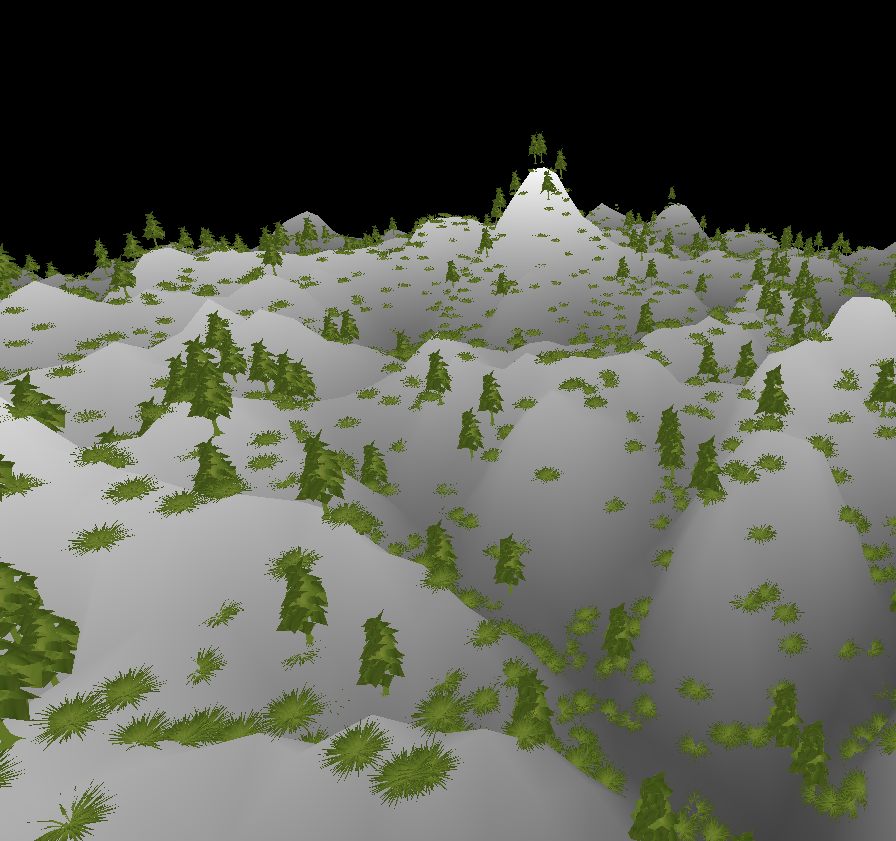
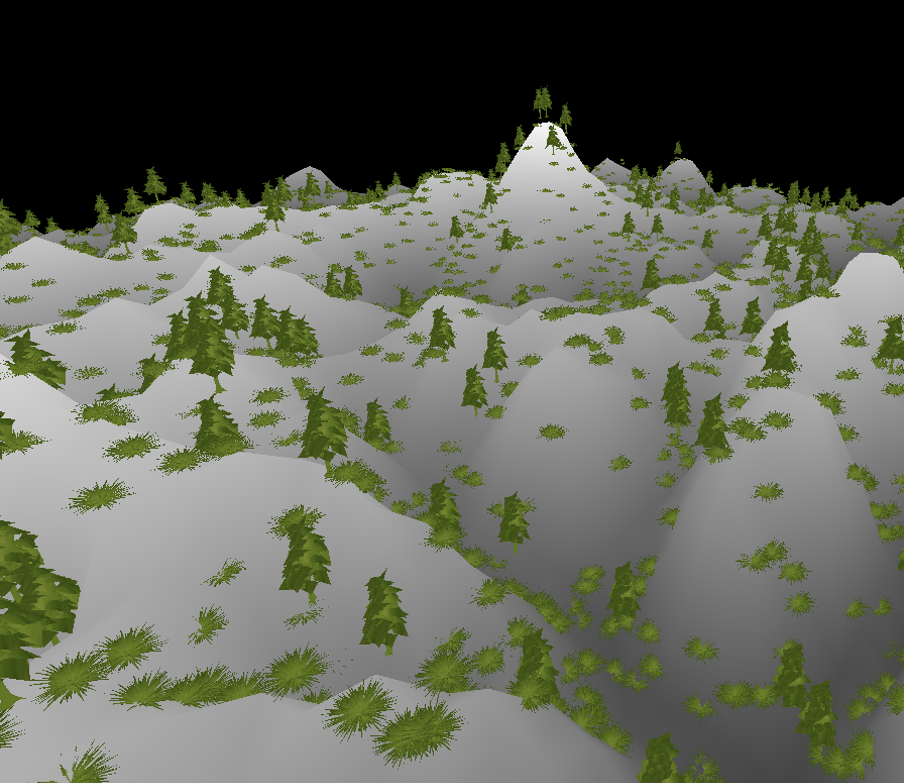
2D/3D Buttons. Minor layout changes

diff --git a/static/css/buttons.css b/static/css/buttons.css
@@ -1,0 +1,75 @@
+a {
+	cursor:pointer
+}
+
+ul.buttons {
+	font-size: 0;
+	margin: 0;
+	list-style-type: none;
+	text-align: left;
+	border-top: none;
+	border-bottom: none;
+	white-space: nowrap;
+	height: 40px;
+	margin-top: 8px;
+	left: -40px;
+	position: relative;
+	z-index: 9999;
+	top: 56px;
+	margin-left: 10px;
+}
+
+ul.buttons li
+{
+    display: inline;
+}
+        
+ul.buttons li a {
+	font: 12px Verdana;
+	font-weight:bold;
+	position: relative;
+	padding: 17px 20px;
+	color: #878787;
+	outline: none;
+	background-color: #c4c4c4;
+	box-shadow: inset 1px 2px 3px rgba(245,255,255,0.5);
+	border:1px solid #C4C4C4;
+}
+
+ul.buttons li:first-child a {
+	border-radius: 5px;
+}
+
+ul.buttons li:last-child a {
+	margin-left:2px;
+	border-radius: 5px;
+}
+
+ul.buttons li a:hover
+{
+    background-image: -webkit-linear-gradient(top, rgba(255,255,255,.3), rgba(255,255,255,0));
+    background-image: -moz-linear-gradient(top, rgba(255,255,255,.3), rgba(255,255,255,0));
+    background-image: -ms-linear-gradient(top, rgba(255,255,255,.3), rgba(255,255,255,0));
+    background-image: -o-linear-gradient(top, rgba(255,255,255,.3), rgba(255,255,255,0));
+    background-image: linear-gradient(top, rgba(255,255,255,.3), rgba(255,255,255,0));
+}
+
+ul.buttons li.selected a, ul.buttons li.selected a:hover {
+	position: relative;
+	top: 0px;
+	font-weight: bold;
+	background: #0092D1;
+	color: white;
+	box-shadow: inset 2px 2px 4px rgba(0,0,0,0.5);
+	border:0px;
+}
+
+ul.buttons li.selected a:hover
+{
+	background-image: -webkit-linear-gradient(top, rgba(255,255,255,.3), rgba(255,255,255,0));
+	background-image: -moz-linear-gradient(top, rgba(255,255,255,.3), rgba(255,255,255,0));
+	background-image: -ms-linear-gradient(top, rgba(255,255,255,.3), rgba(255,255,255,0));
+	background-image: -o-linear-gradient(top, rgba(255,255,255,.3), rgba(255,255,255,0));
+	background-image: linear-gradient(top, rgba(255,255,255,.3), rgba(255,255,255,0));
+}
+

diff --git a/static/js/general_js.js b/static/js/general_js.js
@@ -35,7 +35,7 @@ $(document).ajaxComplete(function() {
 
 function show_input_options (){
 
-    $("#map").html("<img src='" + static_url + "img/3D_scene.png'>")
+    $("#scene").html("<img style='position:relative; top:-10px; border-radius:6px;width:100%' src='" + static_url + "img/3D_scene.png'>")
 
     $("#selected_features").html("Currently Selected: " + feature_id);
 
@@ -51,7 +51,15 @@ function show_input_options (){
         }
     );
 
+    $("#scene").show()
+    $("#map").hide()
+    $("#button_list").css("visibility", "visible")
+
     $("#run_button").show();
+
+    // Set the second tab (3D) to the selected tab.
+    $("#map_button").removeClass("selected")
+    $("#scene_button").addClass("selected")
 
 }
 
@@ -99,10 +107,6 @@ function run_st_sim(feature_id) {
             console.log(xhr.status + ": " + xhr.responseText);
         }
     });
-}
-
-function createWebGL(json_data,extent){
-    console.log(json_data,extent)
 }
 
 /*************************************************** Slider bars  ****************************************************/
@@ -278,5 +282,24 @@ function total_percent_action(value){
         $("#total_input_percent").css('background-color', 'white')
     }
 
+}
+
+function activate_map() {
+    $("#map_button").addClass("selected")
+    $("#scene_button").removeClass("selected")
+    $("#map").show()
+    $("#scene").hide()
+}
+
+function activate_scene(){
+    $("#map_button").removeClass("selected")
+    $("#scene_button").addClass("selected")
+    $("#scene").show()
+    $("#map").hide()
+
+}
+
+function createWebGL(json_data,extent){
+    console.log(json_data,extent)
 }
 

diff --git a/ST_Sim_Landscape_Simulator/templates/index.html b/ST_Sim_Landscape_Simulator/templates/index.html
@@ -15,11 +15,13 @@
     <script src="//code.jquery.com/jquery-1.10.2.js"></script>
     <script src="//code.jquery.com/ui/1.11.4/jquery-ui.js"></script>
 
+
     <!-- General Javascript Functions -->
     <script src="{{STATIC_URL}}js/general_js.js"></script>
 
-    <!-- General CSS -->
+    <!-- My CSS -->
     <link rel="stylesheet" href="{{STATIC_URL}}css/base.css" />
+    <link href="{{STATIC_URL}}css/buttons.css" rel="stylesheet" type="text/css" />
 
     <script>
         static_url={{STATIC_URL}};
@@ -126,7 +128,15 @@
 
         </div>
 
-        <div id="map"></div>
+        <div id="button_container">
+            <!--data-persist="true" keeps the current tab active on page refresh-->
+            <ul id="button_list" class="buttons" data-persist="false" style="visibility:hidden;">
+                <li id="map_button"><a onclick="activate_map()">2D</a></li>
+                <li id="scene_button"><a onclick="activate_scene()">3D</a></li>
+            </ul>
+                <div id="map"></div>
+                <div id="scene" style="display:none"><canvas id="scene_canvas"></canvas></div>
+        </div>
 
         <script src="{{STATIC_URL}}leaflet/leaflet_map.js"></script>
 
@@ -142,11 +152,7 @@
      </div>
 
     <!-- HIDDEN / POP-UP DIV -->
-    <div id="pop-up">
-        <h3></h3>
-        <p>
-        </p>
-    </div>
+    <div id="pop-up"></div>
 
 </body>
 

diff --git a/static/css/base.css b/static/css/base.css
@@ -30,14 +30,29 @@ body {
     position:relative;
     width:21%;
     float:left;
+    margin-left:2px;
+}
+
+#button_container {
+	position: relative;
+	height: 79%;
+	width: 56.5%;
+	top: -38px;
+	float: left;
+	border-radius: 5px;
 }
 
 #map {
-    position:relative;
-    height: 79%;
-    width:56%;
-    top:0px;
-    float:left;
+    position: relative;
+    height: 93%;
+    width: 100%;
+    top: -10px;
+    float: left;
+    border-radius: 5px;
+}
+
+#scene {
+    top:-10px;
     border-radius:5px;
 }
 
@@ -45,10 +60,9 @@ body {
 	position: relative;
 	width: 22%;
 	float: right;
-	margin-right: 5px;
-	margin-left: 0px;
+	left: 5px;
+    margin-right:1px;
 }
-
 #selected_features {
 	margin-top: 10px;
 	margin-bottom: 10px;
@@ -92,6 +106,10 @@ body {
     width: 94%;
     font-size: 1.1em;
     margin-bottom: 10px;
+}
+
+#results{
+    margin-right:10px
 }
 
 #results_loading {
@@ -218,5 +236,10 @@ div#pop-up {
     background: rgba(68, 68, 68, 1);
     box-shadow: 0px 0px 15px rgba(0,0,0,0.2);
     border-radius: 5px;
+}
+
+#sliderTable {
+    left: 10px;
+    position: relative;
 }
 

diff --git a/static/leaflet/leaflet_map.js b/static/leaflet/leaflet_map.js
@@ -1,4 +1,11 @@
-var map = L.map('map').setView([39,-113], 5);
+var map = L.map('map', {
+        zoomControl: false
+    }
+).setView([39,-113], 5);
+
+L.control.zoom({
+     position:'topright'
+}).addTo(map);
 
 var OpenStreetMap=L.tileLayer('http://{s}.tile.osm.org/{z}/{x}/{y}.png', { attribution: '&copy; <a href="http://osm.org/copyright">OpenStreetMap</a>' }).addTo(map);
 
